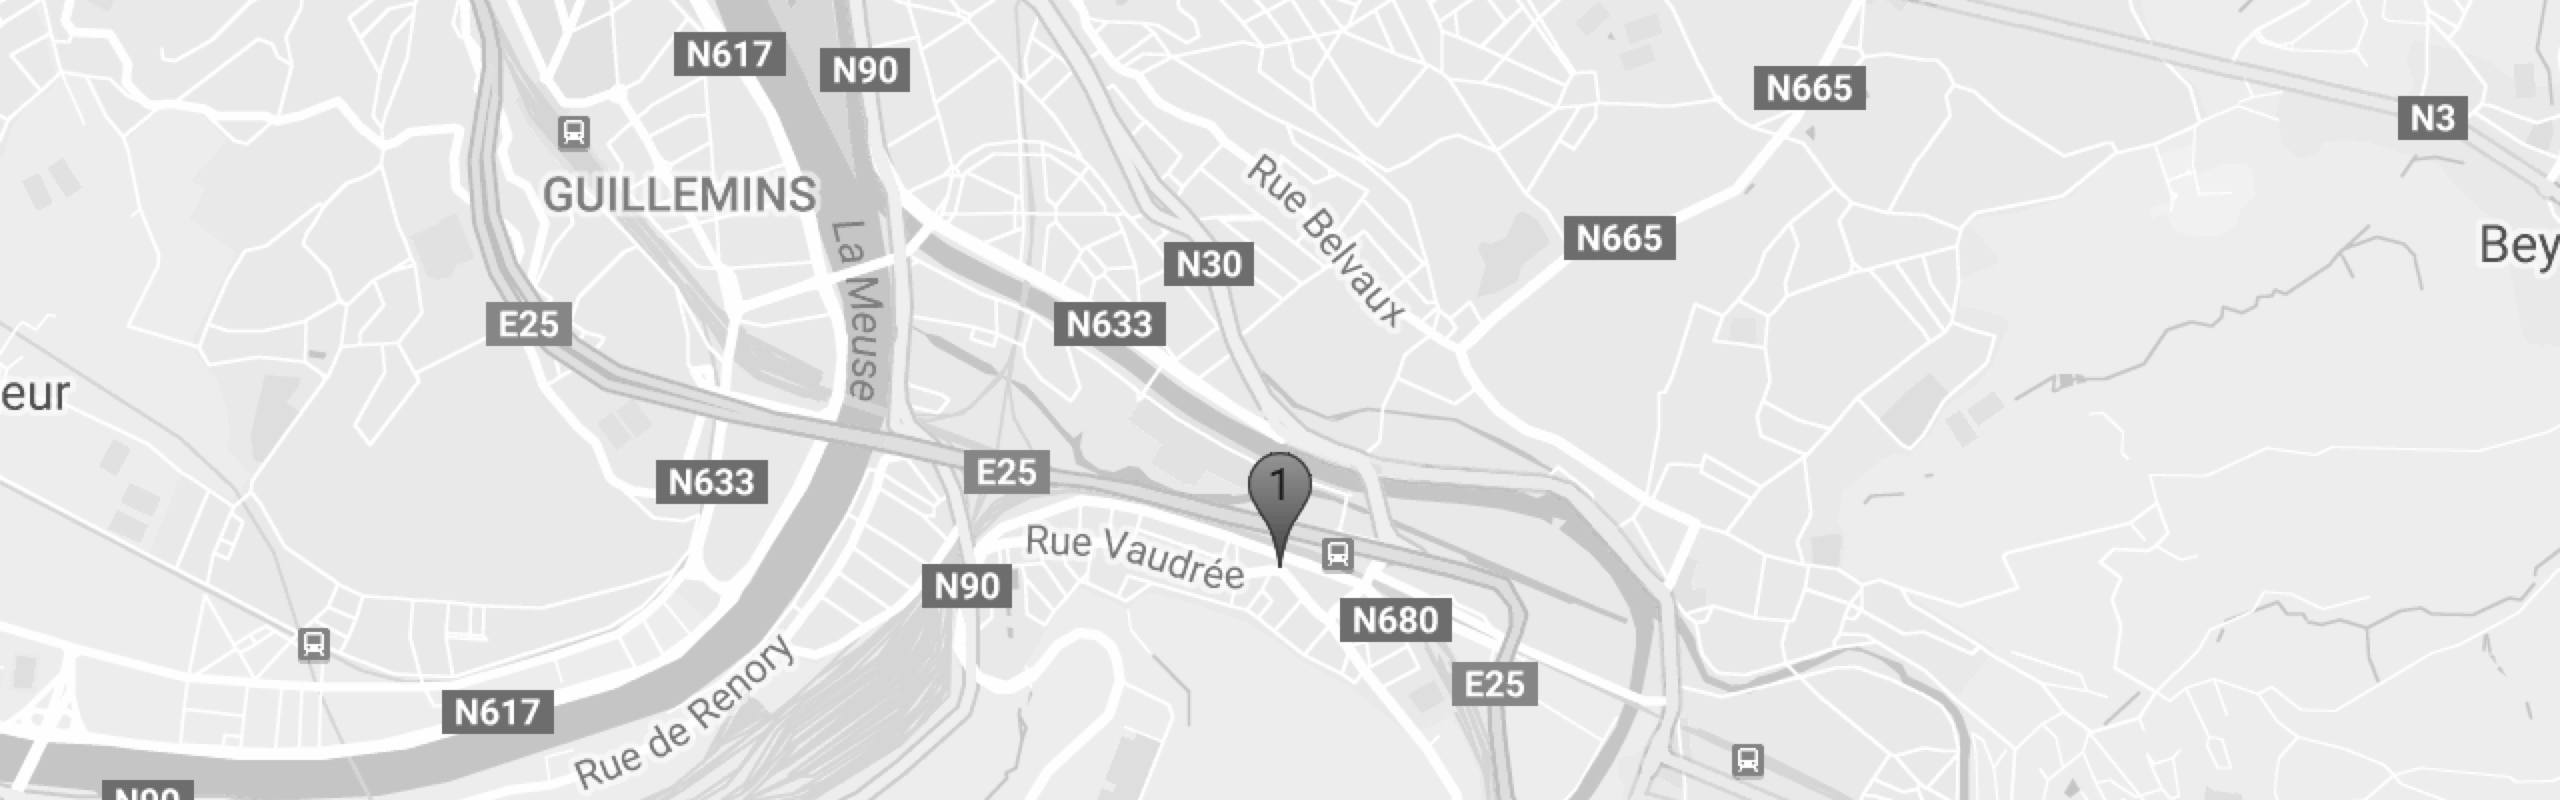
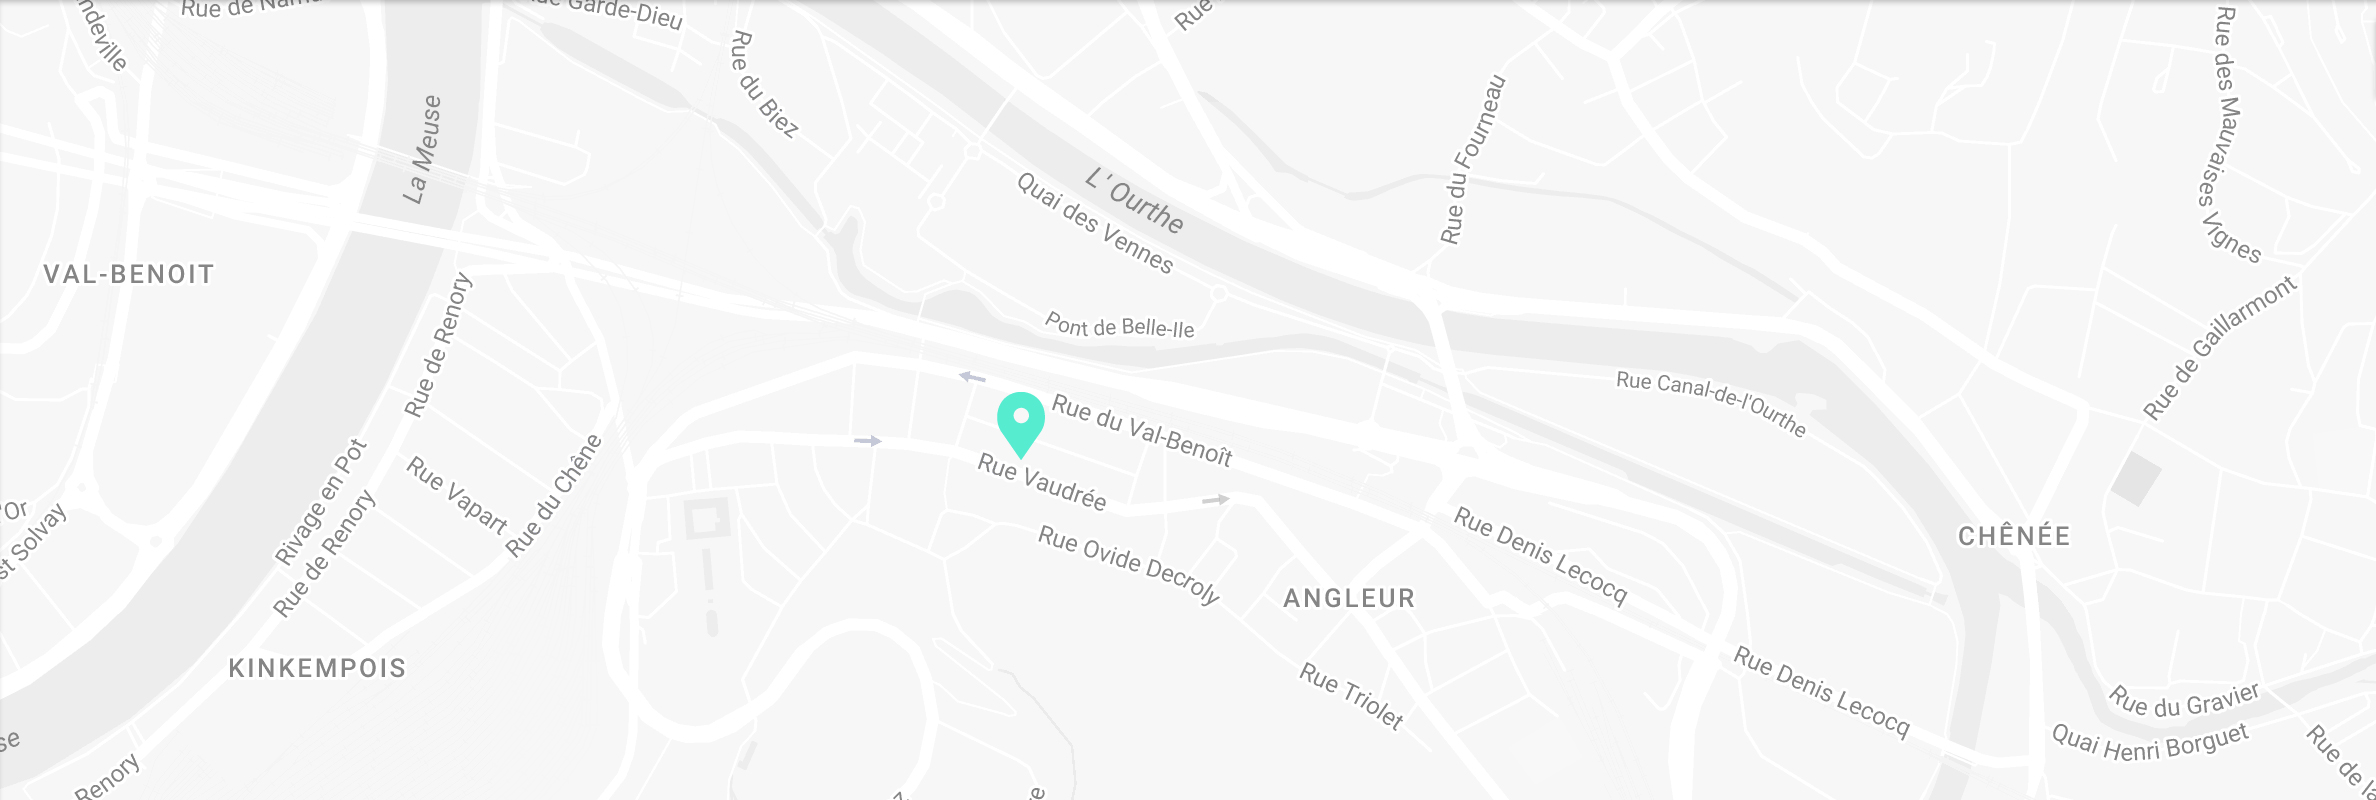
Adding google maps section

diff --git a/www/build/css/main.css b/www/build/css/main.css
@@ -890,7 +890,8 @@ p {
   width: 30.0625em; }
 
 .headContent__cards--form {
-  margin-top: 7.2em; }
+  margin-top: 7.2em;
+  z-index: 1; }
 
 .cards__list--contact {
   width: 100%;
@@ -908,6 +909,22 @@ p {
   .form__submit {
     width: 100%;
     margin: 0em 0em 2em 0.5em; }
+
+.maps__link {
+  height: 40em;
+  position: relative; }
+
+.maps__label {
+  position: absolute;
+  top: 30px;
+  left: 30px;
+  visibility: hidden;
+  height: 0;
+  overflow: hidden; }
+
+.maps__link:hover .maps__label {
+  visibility: visible;
+  height: auto; }
 
 @media screen and (max-width: 1111px) {
   .contactHead__container {
@@ -1864,3 +1881,19 @@ p {
     background: white;
     color: #48B2AD;
     cursor: pointer; }
+
+.maps__link {
+  background: url("../../images/maps.jpg") no-repeat center center;
+  background-size: cover; }
+
+.maps__label {
+  font: 1.8em/2em "museo";
+  text-transform: uppercase;
+  color: #436577;
+  background-color: white;
+  border: 1px solid #436577;
+  padding: 0.8em; }
+  .maps__label:hover {
+    background-color: #436577;
+    border: 1px solid white;
+    color: white; }

diff --git a/www/source/scss/object/_contactHeader.scss b/www/source/scss/object/_contactHeader.scss
@@ -18,6 +18,7 @@
    &__cards{
      &--form{
        margin-top: 7.2em;
+       z-index: 1;
      }
    }
  }
@@ -47,6 +48,28 @@
    }
  }
 
+.maps{
+  &__link{
+    height: 40em;
+    position: relative;
+  }
+  &__label{
+    position: absolute;
+    top:30px;
+    left: 30px;
+    visibility: hidden;
+    height: 0;
+    overflow: hidden;
+  }
+}
+
+.maps__link:hover .maps__label{
+  visibility: visible;
+  height: auto;
+}
+
+
+
  @media screen and(max-width:1111px) {
    .contactHead{
      &__container{
@@ -54,6 +77,9 @@
      }
    }
  }
+
+ // Mediaqueries
+
  @media screen and(max-width:951px) {
    .contactHead{
      padding-bottom: 5em;

diff --git a/www/build/contact.html b/www/build/contact.html
@@ -83,6 +83,9 @@
                   </form>
                 </div>
               </div>
+              <section class="maps">
+                <h2 class="hidden">Google maps</h2><a class="maps__link" href="https://www.google.be/maps/place/Rue+Vaudr%C3%A9e+48,+4031+Li%C3%A8ge/@50.6127477,5.5951963,17z/data=!3m1!4b1!4m5!3m4!1s0x47c0f746b29cb281:0x69612a0f1477f0cc!8m2!3d50.6127443!4d5.597385?hl=fr" title="Google maps"><span class="maps__label">Google maps</span></a>
+              </section>
             </section>
             <footer class="footer">
               <section class="footer__container">

diff --git a/www/source/scss/components/_contactHeader.scss b/www/source/scss/components/_contactHeader.scss
@@ -74,3 +74,23 @@
      }
    }
  }
+
+.maps{
+  &__link{
+    background: url("../../images/maps.jpg") no-repeat center center;
+    background-size: cover;
+  }
+  &__label{
+    font: 1.8em/2em $museo;
+    text-transform: uppercase;
+    color: $texteColor;
+    background-color: $white;
+    border: 1px solid $texteColor;
+    padding: 0.8em;
+    &:hover{
+      background-color: $texteColor;
+      border: 1px solid $white;
+      color: $white;
+    }
+  }
+}
